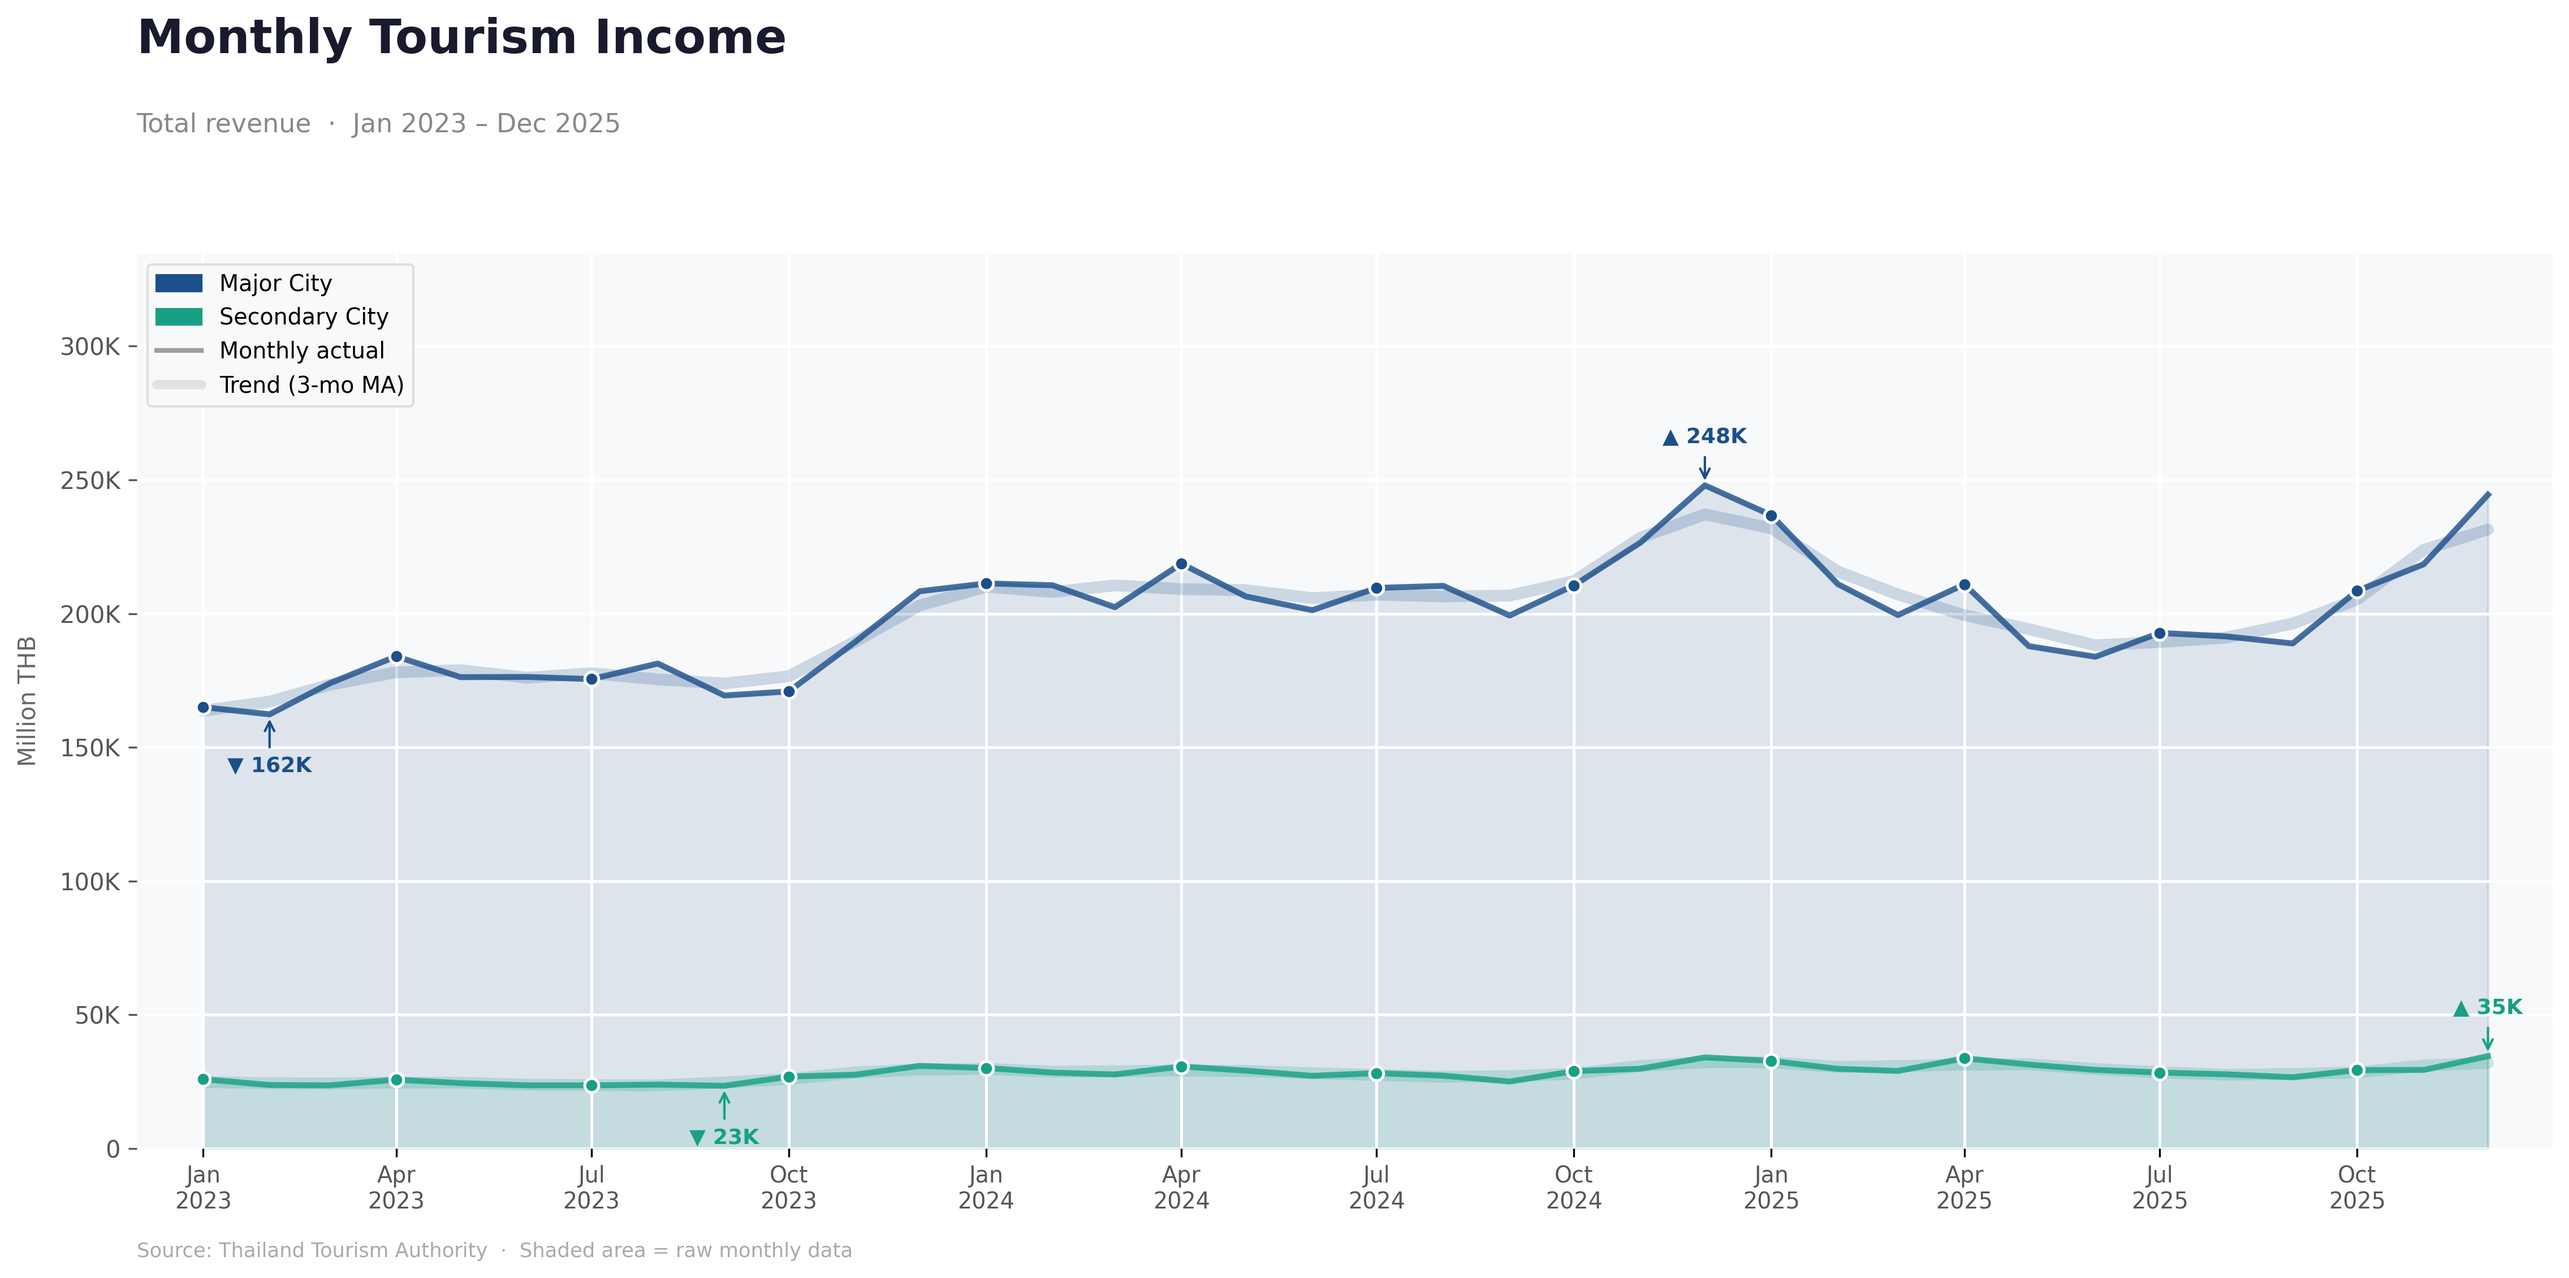
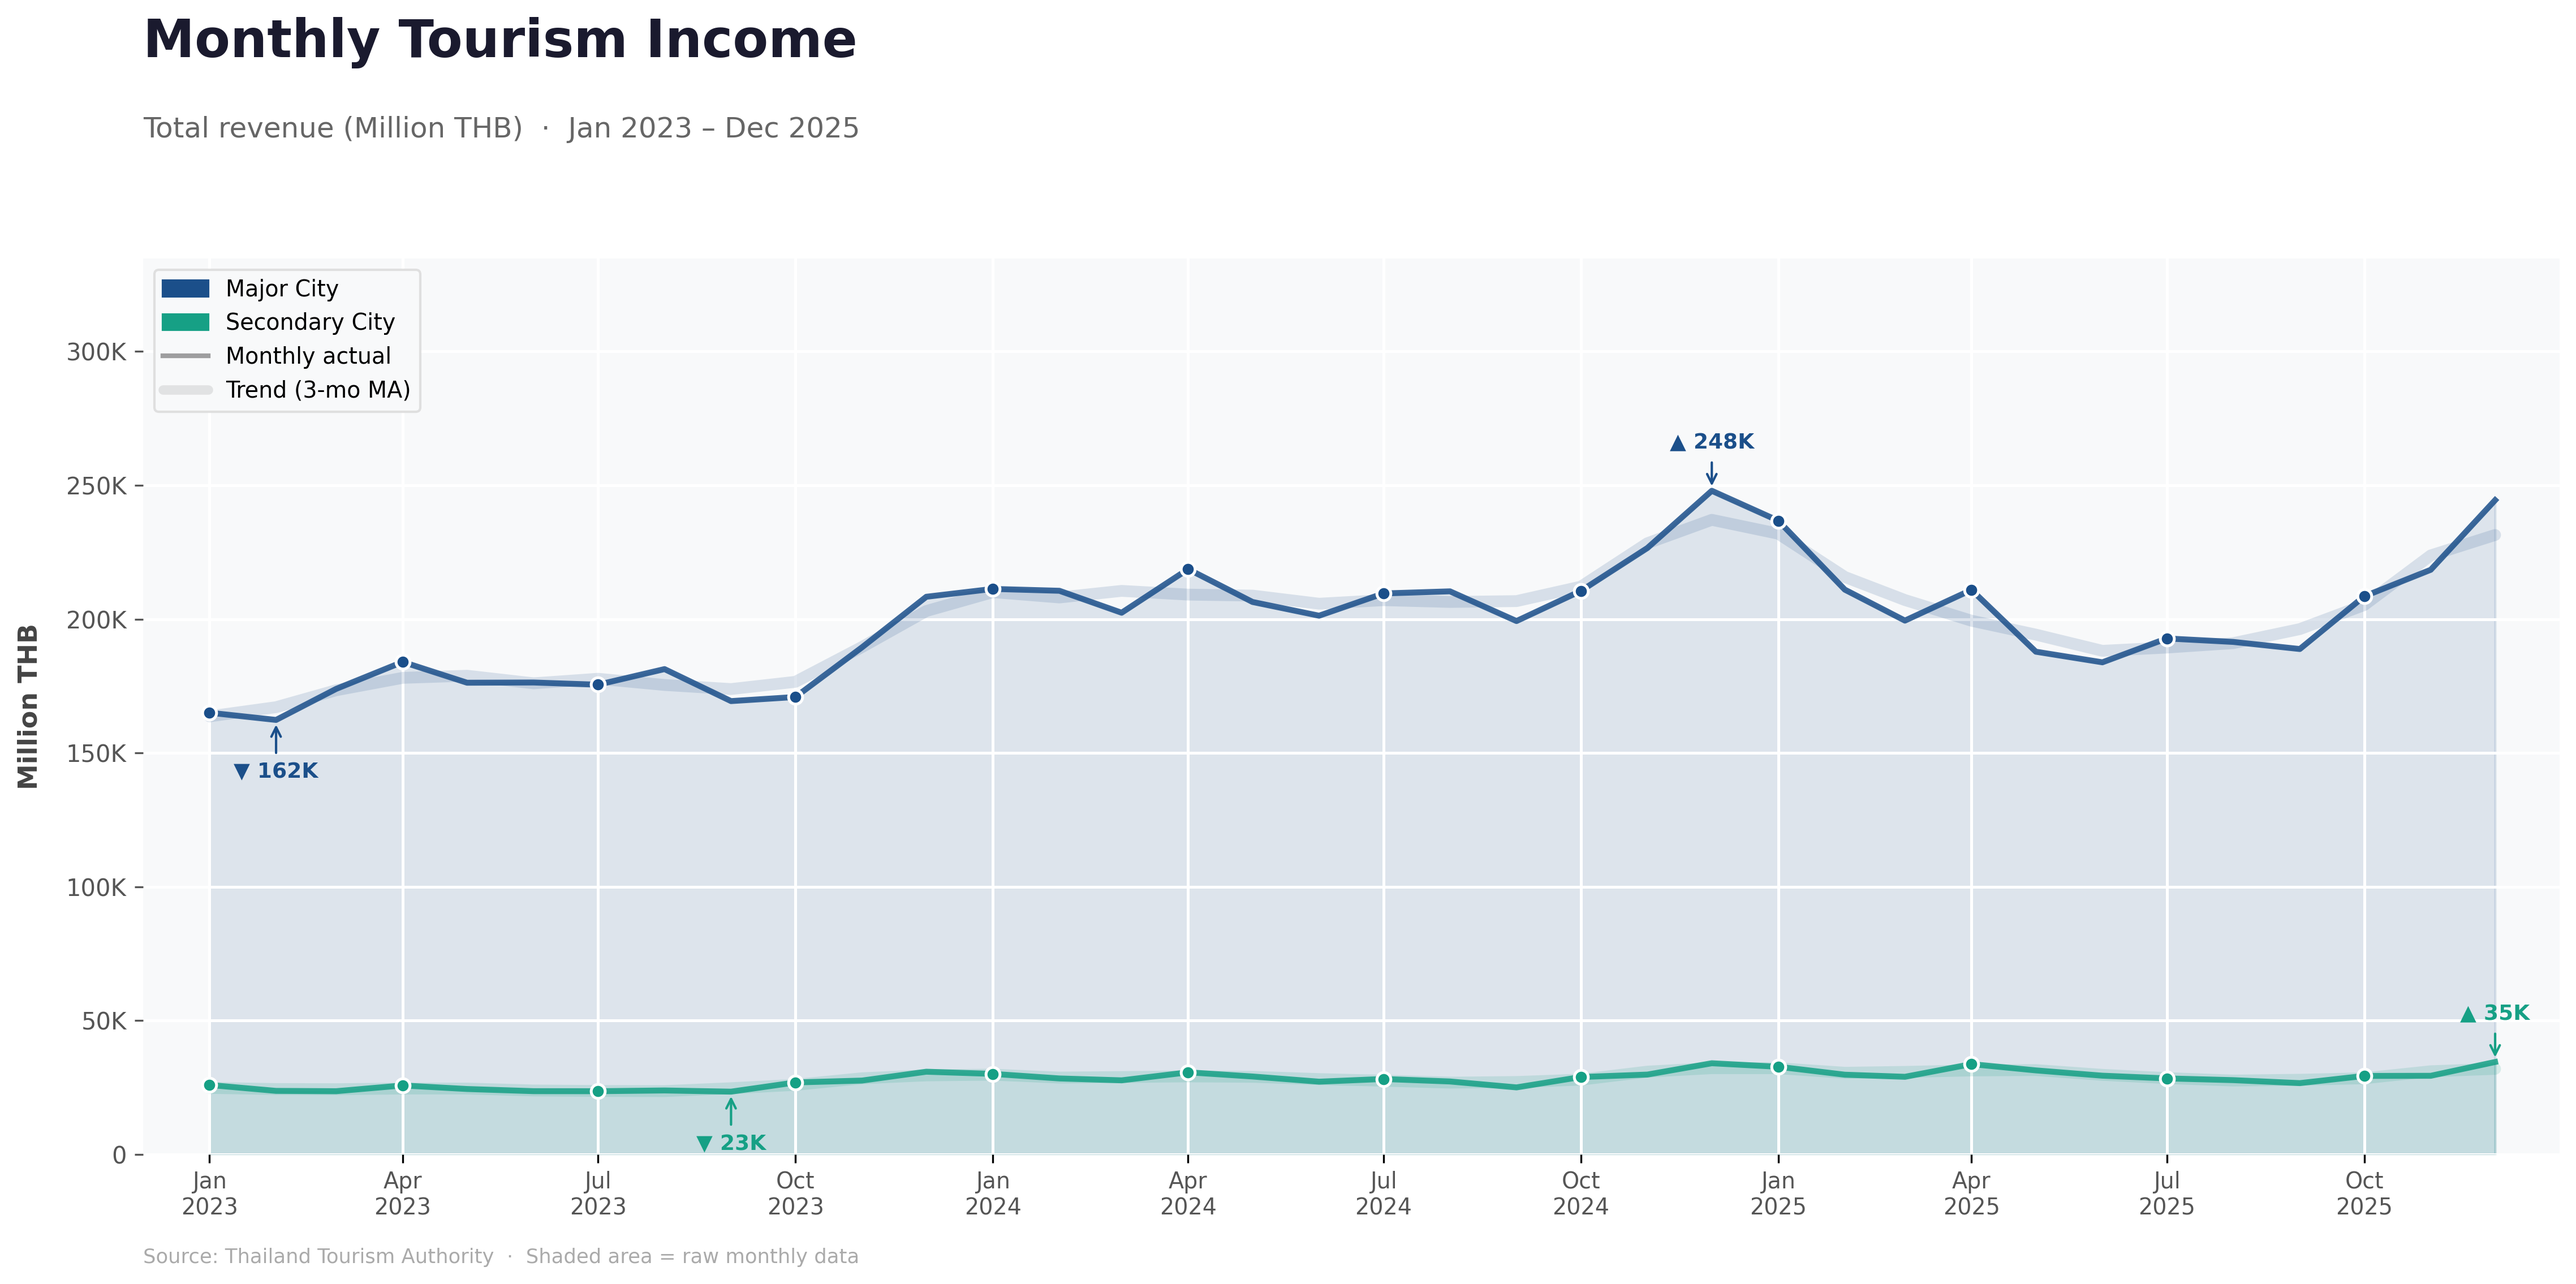
update cleaned data and script

diff --git a/visualizations/Trend_visitors_revenue.py b/visualizations/Trend_visitors_revenue.py
@@ -1,5 +1,3 @@
-# Pimkanit Created
-
 import pandas as pd
 import matplotlib.pyplot as plt
 import matplotlib.dates as mdates
@@ -63,14 +61,14 @@ CHART_CONFIGS = [
         'title':    'Monthly Tourist Arrivals',
         'subtitle': 'Number of visitors  ·  Jan 2023 – Dec 2025',
         'ylabel':   'Visitors',
-        'filename': 'total_visitors_trend.png', # เปลี่ยนชื่อไฟล์ตามที่ขอ
+        'filename': 'total_visitors_trend.png',
     },
     {
         'col':      'total_revenue',
         'title':    'Monthly Tourism Income',
-        'subtitle': 'Total revenue  ·  Jan 2023 – Dec 2025',
-        'ylabel':   'Million THB',              # ระบุหน่วยเป็นล้านบาทตามข้อมูลจริง
-        'filename': 'total_revenue_trend.png',  # เปลี่ยนชื่อไฟล์ตามที่ขอ
+        'subtitle': 'Total revenue (Million THB)  ·  Jan 2023 – Dec 2025', # ใส่หน่วยใน Subtitle เพื่อความชัดเจน
+        'ylabel':   'Million THB',
+        'filename': 'total_revenue_trend.png',
     },
 ]
 
@@ -95,29 +93,34 @@ def create_chart(cfg):
         raw   = sub[col]
         ma    = sub['ma']
 
-        # Draw Style: Actual (Solid) & Trend (Soft Shadow)
+        # 1. พื้นที่สีจางด้านล่าง
         ax.fill_between(dates, raw, alpha=FILL_ALPHA, color=color, zorder=1)
-        ax.plot(dates, ma, color=color, linewidth=5, alpha=0.2, solid_capstyle='round', zorder=2)
-        ax.plot(dates, raw, color=color, alpha=0.8, linewidth=2.5, zorder=3)
+        # 2. เส้น Trend (MA) เป็นเงาหนาและจางอยู่ด้านหลัง
+        ax.plot(dates, ma, color=color, linewidth=5, alpha=0.15, solid_capstyle='round', zorder=2)
+        # 3. เส้นข้อมูลจริง (Actual) เป็นเส้นทึบเด่นอยู่ด้านหน้า
+        ax.plot(dates, raw, color=color, alpha=0.85, linewidth=2.5, zorder=3)
         
+        # จุด Marker รายไตรมาส
         q_mask = dates.dt.month.isin([1, 4, 7, 10])
         ax.scatter(dates[q_mask], raw[q_mask], color=color, s=35, zorder=4, edgecolors='white', linewidths=1.2)
 
-    # Annotations
+    # การใส่ตัวเลข Peak & Drop
     for name, color in [('Major City', COLORS['Major City']),
                          ('Secondary City', COLORS['Secondary City'])]:
         sub  = groups[name]
         peak = sub.loc[sub[col].idxmax()]
         drop = sub.loc[sub[col].idxmin()]
 
+        # Peak
         ax.annotate(f'▲ {fmt(peak[col])}', xy=(peak['date'], peak[col]), xytext=(0, 16),
                     textcoords='offset points', fontsize=9, color=color, ha='center', va='bottom', fontweight='bold',
                     arrowprops=dict(arrowstyle='->', color=color, lw=1, mutation_scale=10))
-        
+        # Drop
         ax.annotate(f'▼ {fmt(drop[col])}', xy=(drop['date'], drop[col]), xytext=(0, -18),
                     textcoords='offset points', fontsize=9, color=color, ha='center', va='top', fontweight='bold',
                     arrowprops=dict(arrowstyle='->', color=color, lw=1, mutation_scale=10))
 
+    # จัดการแกน Y และ X
     global_max = df_plot[col].max()
     ax.set_ylim(0, global_max * 1.35)
     ax.yaxis.set_major_formatter(FuncFormatter(lambda x, _: fmt(x)))
@@ -127,9 +130,11 @@ def create_chart(cfg):
     ax.set_xticks(ticks)
     ax.set_xticklabels([d.strftime('%b\n%Y') for d in ticks], fontsize=9.5, color='#555')
     ax.set_xlim(pd.Timestamp('2022-12-01'), pd.Timestamp('2025-12-31'))
-    ax.set_ylabel(cfg['ylabel'], fontsize=10, color='#666', labelpad=8)
+    
+    # ปรับ Label แกน Y ให้ชัดเจน
+    ax.set_ylabel(cfg['ylabel'], fontsize=11, color='#444', fontweight='bold', labelpad=10)
 
-    # Legend
+    # คำอธิบายสัญลักษณ์ (Legend)
     handles = [
         mpatches.Patch(color=COLORS['Major City'],     label='Major City'),
         mpatches.Patch(color=COLORS['Secondary City'], label='Secondary City'),
@@ -138,16 +143,16 @@ def create_chart(cfg):
     ]
     ax.legend(handles=handles, loc='upper left', fontsize=9.5, framealpha=0.9, edgecolor='#DDD')
 
-    fig.text(0.07, 0.92, cfg['title'], fontsize=20, fontweight='bold', color='#1A1A2E', va='bottom')
-    fig.text(0.07, 0.865, cfg['subtitle'], fontsize=11, color='#888', va='bottom')
+    # ข้อความหัวกราฟและที่มา
+    fig.text(0.07, 0.92, cfg['title'], fontsize=22, fontweight='bold', color='#1A1A2E', va='bottom')
+    fig.text(0.07, 0.865, cfg['subtitle'], fontsize=12, color='#666', va='bottom')
     fig.text(0.07, 0.04, 'Source: Thailand Tourism Authority  ·  Shaded area = raw monthly data', fontsize=8.5, color='#AAA')
 
     plt.savefig(f'visualizations/{filename}', dpi=300, facecolor='white', bbox_inches='tight')
     plt.close()
-    print(f'✅ Generated: {filename}')
+    print(f'✅ Successfully generated: {filename}')
 
 for cfg in CHART_CONFIGS:
     create_chart(cfg)
 
-print('\n🚀 ALL CHARTS UPDATED!')
-
+print('\n🚀 CHARTS ARE READY FOR YOUR REPORT!')

diff --git a/README.md b/README.md
@@ -41,7 +41,7 @@ Tourism represents an important source of economic activity across provinces in 
 Examining trends in tourism performance across these two groups is therefore important for identifying emerging patterns and assesing the potential for broader tourism development. Observing changes in both tourist arrivals and tourism income over time allows for an evaluation of whether growth in secondary cities signals expanding economic opportunities and increasing participation in the tourism economy. By comparing these trends, the analysis provides insight into how tourism dynamics evolve across provinces and helps reveal the potential for secondary destinations to strengthen their economic role within Thailand’s tourism sector.
 
 ### **Figure 1: Monthly Tourist Arrivals Trend**
-![Figure 1](visualizations/Figure%201.png)
+![Figure 1](visualizations/total_visitors_trend.png)
 
 The comparison of visitor arrivals (Figure 1A) reveals a promising shift in travel behavior:
 * **Success in Redistribution**: Secondary cities are showing a steady and reliable growth trend that mirrors the seasonal patterns of major hubs, particularly during the year-end "High Season."
